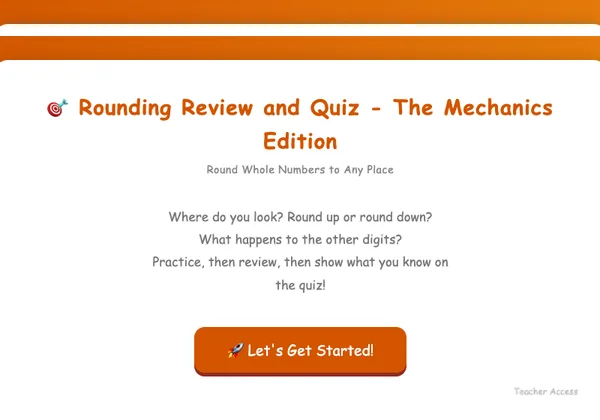
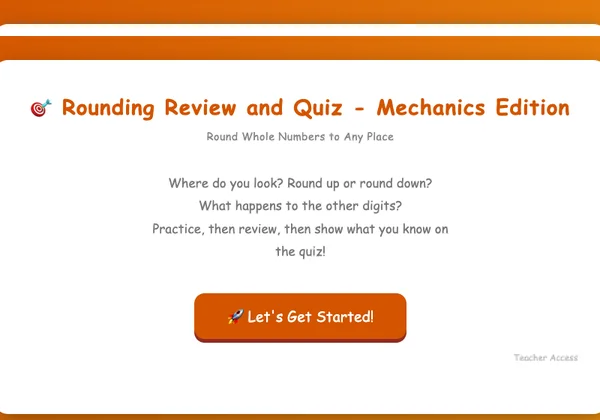
feat: card title Rounding Review and Quiz - Mechanics Edition (no "The"), new thumbnail

diff --git a/index.html b/index.html
@@ -397,10 +397,10 @@
 
         <a href="https://molivera1977.github.io/math-rounding-quiz/" class="card" target="_blank">
             <div class="card-image">
-                <img loading="lazy" src="images/math-rounding-quiz.webp?v=mech" alt="Rounding Review and Quiz - The Mechanics Edition">
+                <img loading="lazy" src="images/math-rounding-quiz.webp?v=mech2" alt="Rounding Review and Quiz - Mechanics Edition">
             </div>
             <div class="card-content">
-                <div class="card-title">Rounding Review and Quiz - The Mechanics Edition</div>
+                <div class="card-title">Rounding Review and Quiz - Mechanics Edition</div>
                 <span class="card-tag">Math</span>
             </div>
         </a>
